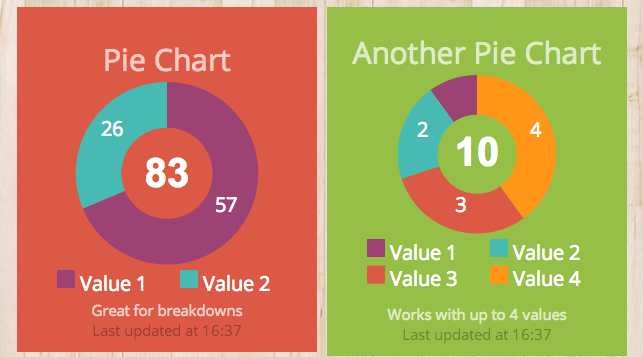
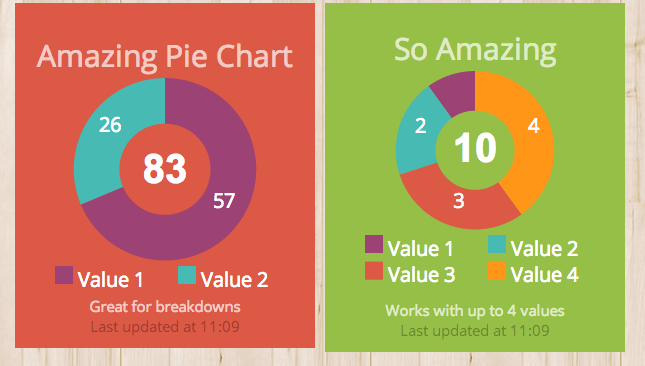
Rename Pie to AmazingPie

diff --git a/amazing_pie.scss b/amazing_pie.scss
@@ -9,7 +9,7 @@ $moreinfo-color:    rgba(255, 255, 255, 0.7);
 
 
 
-.widget-pie {
+.widget-amazing-pie {
 
   .title {
     color: $title-color;

diff --git a/README.md b/README.md
@@ -1,17 +1,17 @@
 ---
-title: Pie
+title: Amazing Pie
 description: A pie chart widget for dashing, with a legend
 author: Michael Woffendin
-tags: dashing, widget, chart, legend, pie
+tags: dashing, widget, chart, legend, pie, amazing
 created:  2015 Jan 12
 modified: 2015 Jan 12
 
 ---
 
-Pie
+Amazing Pie
 =========
 
-![alt tag](https://raw.github.com/osu-sig/Pie-Widget/master/screenshot.png)
+![alt tag](https://raw.github.com/osu-sig/Amazing-Pie-Widget/master/screenshot.png)
 
 ## What is it?
 
